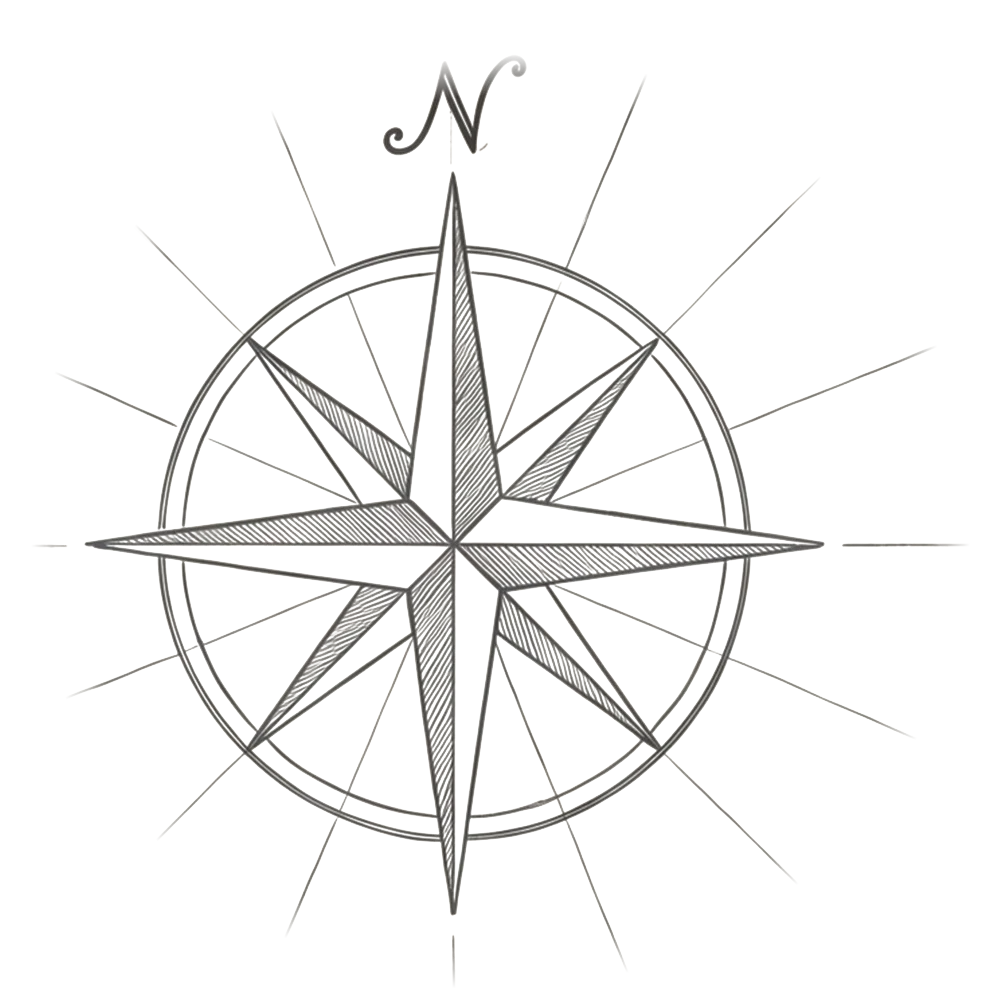
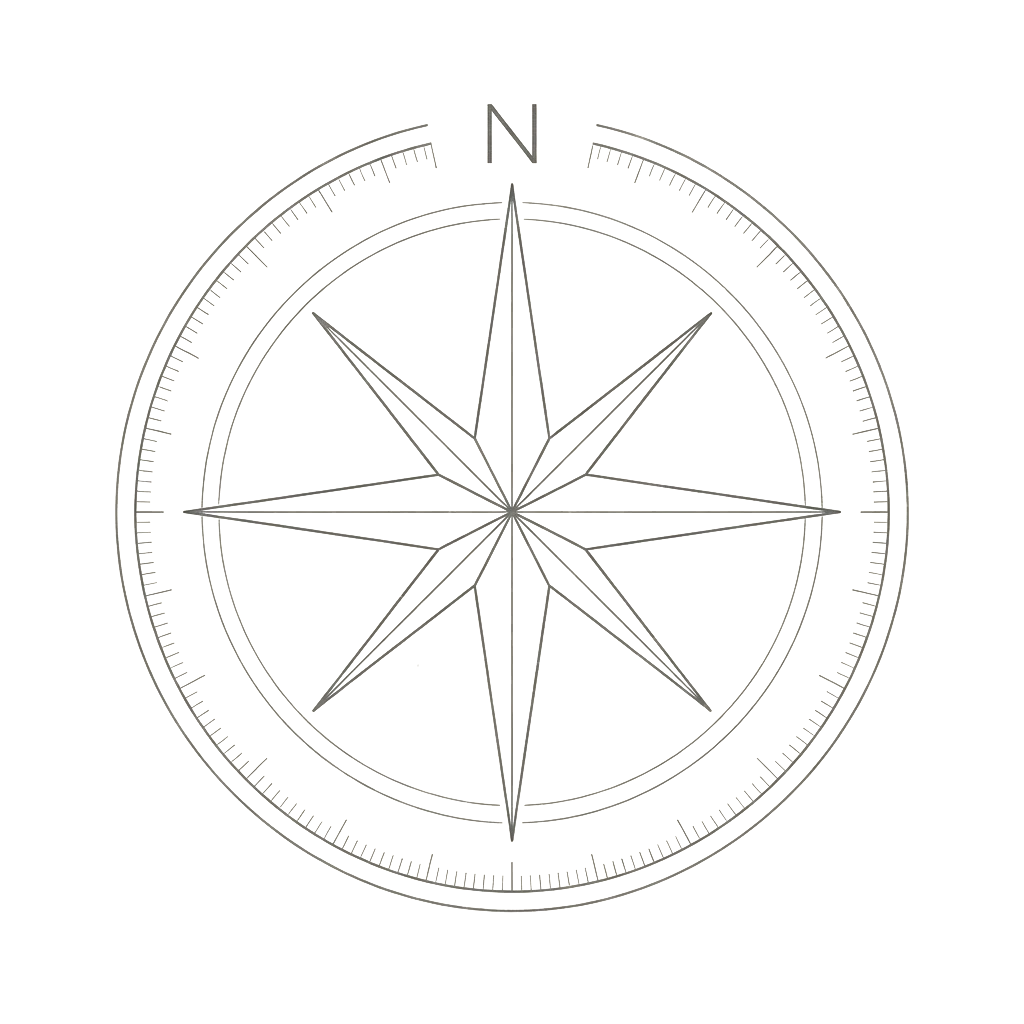
Portal: brújula moderna minimalista (nano-banana) y sección compacta (stage 68vh centrado, pin 190vh) manteniendo el efecto

diff --git a/index.html b/index.html
@@ -1817,12 +1817,13 @@
         /* ── Portal Jesko: el mapa nace de la brújula (das-design) ── */
         .compass-pin {
             position: relative;
-            height: 240vh;              /* recorrido del pin */
+            height: 190vh;              /* recorrido del pin */
             border-top: 1px solid rgba(42,191,191,0.15);
         }
         .compass-stage {
-            position: sticky; top: 0;
-            height: 100vh; min-height: 560px;
+            position: sticky;
+            top: calc((100vh - min(68vh, 600px)) / 2);
+            height: min(68vh, 600px); min-height: 480px;
             overflow: clip;
             background: #FAF7F2;        /* mismo papel de la carta */
             display: flex; flex-direction: column;
@@ -1849,7 +1850,7 @@
         .compass-display {
             font-family: var(--font-d);
             font-weight: 400;
-            font-size: clamp(40px, 6.5vw, 104px);
+            font-size: clamp(36px, 5.5vw, 84px);
             line-height: 0.95;
             letter-spacing: -0.02em;
             color: var(--black);
@@ -1860,27 +1861,27 @@
         .compass-display-right { text-align: left; }
         .compass-display-right em { font-style: italic; }
         .compass-porthole {
-            width: clamp(240px, 30vw, 400px); aspect-ratio: 1;
+            width: clamp(210px, 26vw, 340px); aspect-ratio: 1;
             background: url('img/compass-sketch.webp') center/contain no-repeat;
             transform-origin: center center;
             will-change: transform, opacity;
             filter: drop-shadow(0 14px 30px rgba(0,0,0,0.14));
         }
         .compass-meta {
-            position: absolute; bottom: 48px; left: 0; right: 0;
+            position: absolute; bottom: 28px; left: 0; right: 0;
             z-index: 4;
             display: flex; justify-content: center;
             padding: 0 24px;
             will-change: transform, opacity;
         }
         @media (max-width: 1023px) {
-            .compass-pin { height: 200vh; }
+            .compass-pin { height: 170vh; }
             .compass-grid { grid-template-columns: 1fr; gap: 14px; }
             .compass-display-left, .compass-display-right { text-align: center; }
             .compass-porthole { margin: 0 auto; }
         }
         @media (max-width: 640px) {
-            .compass-pin { height: 180vh; }
+            .compass-pin { height: 160vh; }
             .compass-display { font-size: clamp(34px, 11vw, 56px); }
             .compass-meta { bottom: 24px; }
         }